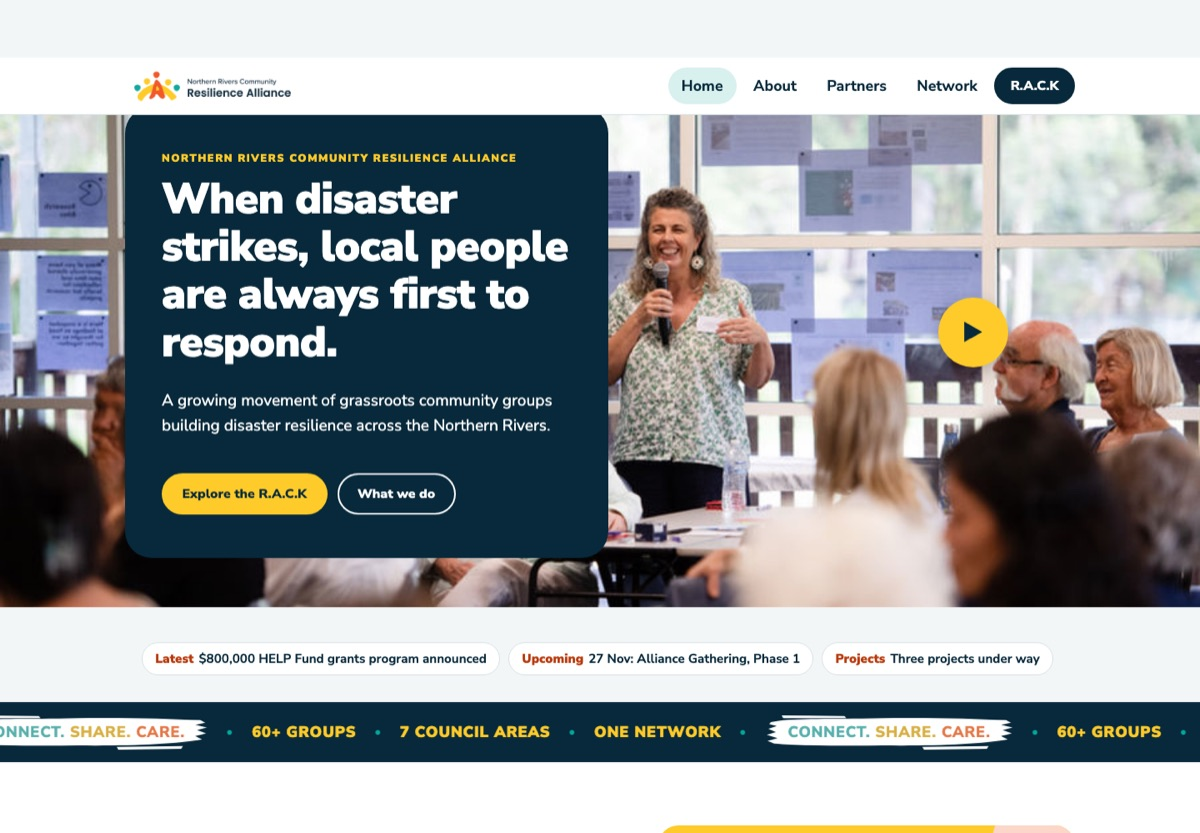
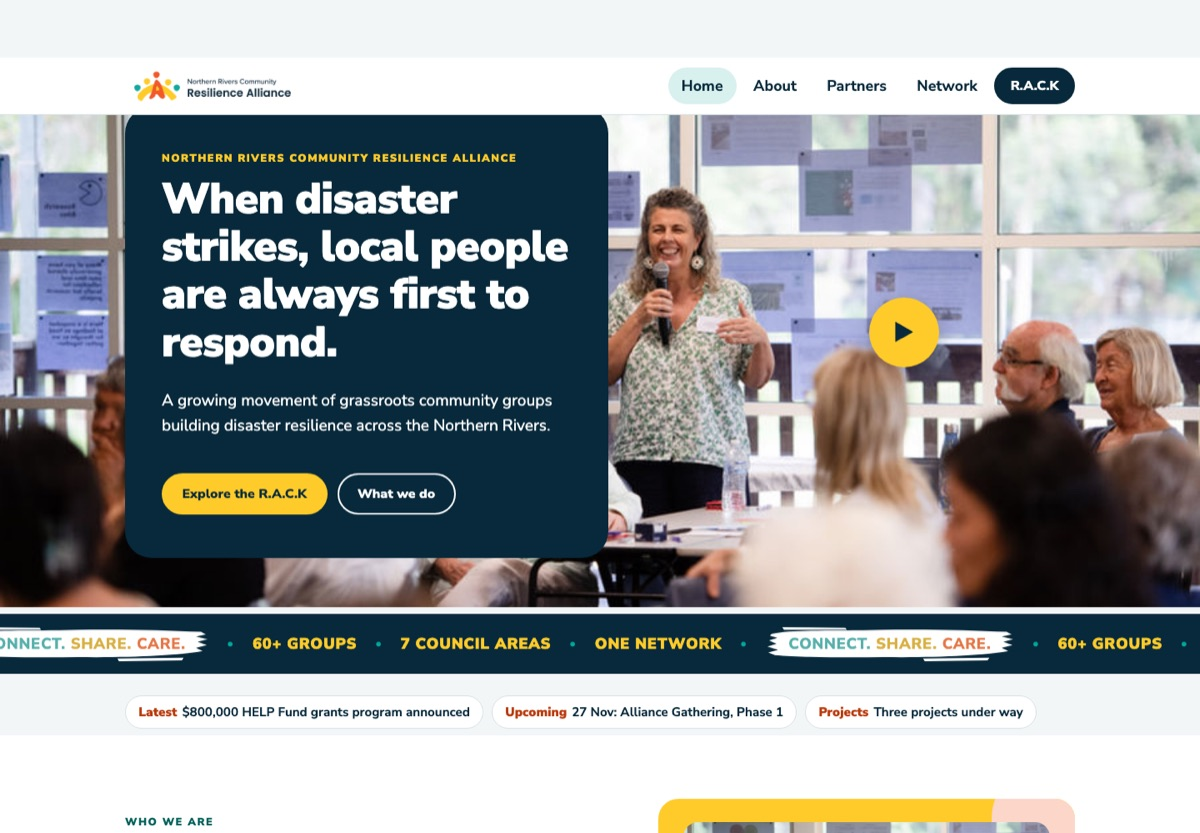
V1/V1.2: remove the bars under the five pillars; V1.2: play button centred between panel and window edge, ticker above the Latest strip

diff --git a/v1.2/index.html b/v1.2/index.html
@@ -171,7 +171,7 @@ body{--bg:#f3f6f7}
 .v1 .pc::before{content:"";display:block;align-self:stretch;height:18px;margin:0 -16px 22px;border-radius:12px 12px 0 0;background:var(--teal)}
 .v1 .pc:nth-child(2)::before{background:var(--yellow)}.v1 .pc:nth-child(3)::before{background:var(--orange)}.v1 .pc:nth-child(4)::before{background:var(--navy)}.v1 .pc:nth-child(5)::before{background:#9fb0b8}
 .v1 .pc-ico{width:52px;height:52px;margin-bottom:8px}.v1 .pc h3{min-height:2.4em;display:flex;align-items:center}
-.v1 .pc-base{height:16px;margin:8px -10px 0;border-radius:8px;background:#cfd8dc}.v1 .pcwrap::after{content:"";display:block;height:10px;margin:0 -20px;border-radius:0 0 10px 10px;background:#e1e7ea}
+.v1 .pc-base{display:none}
 @media(max-width:640px){.v1 .pc{border-radius:12px 12px 6px 6px}}
 .v1 .pc:nth-child(1){background:var(--teal-25)}.v1 .pc:nth-child(2){background:var(--yellow-40)}.v1 .pc:nth-child(3){background:var(--orange-25)}.v1 .pc:nth-child(4){background:var(--blue-15)}.v1 .pc:nth-child(5){background:var(--grey-6)}
 .p3{display:grid;grid-template-columns:.9fr 1.1fr 1fr;gap:36px;align-items:start}.p3-img img{width:100%;aspect-ratio:4/5;object-fit:cover;border-radius:28px}.p3-txt p{font-size:1.1rem;margin:0}
@@ -196,7 +196,7 @@ body{--bg:#f3f6f7}
 .full .bk-navy .eyebrow{color:var(--yellow)}.full :is(.bk-yellow,.bk-teal,.bk-orange) .eyebrow{color:var(--navy)}.full .bk-navy>.wrap>h2,.full .bk-navy>.wrap>.lede{color:#fff}
 .full :is(.bk-teal,.bk-orange,.bk-yellow) .lede-s{color:var(--navy)}
 .full [class*="bk-"] :is(.card,.stat-card,.val,.kb li,.tcard,.vp,.pc,.pcard,.racks li,.callcard){color:var(--navy)}.full [class*="bk-"] :is(.card,.stat-card,.tcard,.pcard,.racks li){background:#fff}
-.full .bk-navy .pc-base,.full .bk-navy .pcwrap::after{background:#2c4a5b}.full .bk-teal .tline path{opacity:.7}.full .bk-teal .t0 .stop{border-color:var(--navy)}.full .bk-teal .val-teal{box-shadow:0 0 0 3px #fff}.full .bk-yellow .callcard{background:#fff}.full .bk-yellow .callcard::after{background:var(--yellow-40)}
+.full .bk-teal .tline path{opacity:.7}.full .bk-teal .t0 .stop{border-color:var(--navy)}.full .bk-teal .val-teal{box-shadow:0 0 0 3px #fff}.full .bk-yellow .callcard{background:#fff}.full .bk-yellow .callcard::after{background:var(--yellow-40)}
 .full .bk-orange .card a:not(.btn){color:var(--teal-d)}.full [class*="bk-"] :is(.card,.stat-card) .eyebrow{color:var(--teal-d)}
 .ticker{display:none}.full .ticker{display:block;overflow:hidden;background:var(--navy);color:var(--yellow);font-weight:900;font-size:1.15rem;letter-spacing:.04em;text-transform:uppercase;padding:12px 0;white-space:nowrap}
 .full .tk-in{display:inline-flex;gap:22px;align-items:center;animation:tk 40s linear infinite}.full .tk-in .tkd{font-style:normal;color:var(--teal);font-size:.7em}
@@ -206,7 +206,7 @@ body{--bg:#f3f6f7}
 /* V1.2: full-width hero and image sections */
 .full .hero1{padding:0 0 8px}.full .hero1>.wrap:first-child{display:flex;align-items:center;max-width:none;padding:0;position:relative;min-height:660px}
 .full .h1-photo{position:absolute;inset:0;border-radius:0;min-height:0}.full .h1-panel{position:relative;z-index:2;max-width:580px;margin:56px 0 56px max(20px,calc((100vw - var(--wrap))/2 + 20px))}
-.full .hero1 .latest{margin-top:22px}.full .hvid .play{left:auto;right:16%}.full .hvid .vtag{display:none}
+.full .hero1 .latest{margin-top:22px}.latest-row{padding:26px 0 8px}.latest-row .latest{margin:0}.full .hvid .play{inset:auto;top:50%;margin:0;left:calc((max(20px,(100% - 1180px)/2 + 20px) + 580px + 100%)/2);transform:translate(-50%,-50%)}.full .hvid .vtag{display:none}
 @media(max-width:860px){.full .hero1>.wrap:first-child{display:block;min-height:0;padding:0 0 250px;position:relative}
 .full .hero1>.wrap:first-child>.h1-panel{margin:16px 16px 0;max-width:none;padding:28px 22px}
 .full .hvid .play{inset:auto;left:50%;right:auto;top:auto;bottom:112px;margin:0;transform:translateX(-50%)}
@@ -226,9 +226,9 @@ body{--bg:#f3f6f7}
 <h1>When disaster strikes, local people are always first to respond.</h1><p class="lede">A growing movement of grassroots community groups building disaster resilience across the Northern Rivers.</p>
 <p class="btnrow"><a class="btn btn-primary" href="#rack">Explore the R.A.C.K</a><a class="btn btn-ghost" href="#about">What we do</a></p></div>
 <div class="h1-photo hvid" data-video="https://player.vimeo.com/video/1238627190?h=85714a045a&autoplay=1"><img src="../assets/img/speaker.jpg" alt="" class="" loading="eager" decoding="async"><button class="play" aria-label="Play the Alliance sizzle reel video, full screen"><span aria-hidden="true">&#9654;</span></button><span class="vtag">Watch the sizzle reel</span></div></div>
-<div class="wrap"><div class="latest"><a href="https://www.nrcra.org.au/news"><b>Latest</b>$800,000 HELP Fund grants program announced</a><a href="#home-focus"><b>Upcoming</b>27 Nov: Alliance Gathering, Phase 1</a><a href="#partners"><b>Projects</b>Three projects under way</a></div></div></div>
+</div>
 
-<div class="ticker" aria-hidden="true"><div class="tk-in"><span><span class="tagline"><i class="tg1">Connect.</i> <i class="tg2">Share.</i> <i class="tg3">Care.</i></span></span><b class="tkd">&#9679;</b><span>60+ groups</span><b class="tkd">&#9679;</b><span>7 council areas</span><b class="tkd">&#9679;</b><span>One network</span><b class="tkd">&#9679;</b><span><span class="tagline"><i class="tg1">Connect.</i> <i class="tg2">Share.</i> <i class="tg3">Care.</i></span></span><b class="tkd">&#9679;</b><span>60+ groups</span><b class="tkd">&#9679;</b><span>7 council areas</span><b class="tkd">&#9679;</b><span>One network</span><b class="tkd">&#9679;</b><span><span class="tagline"><i class="tg1">Connect.</i> <i class="tg2">Share.</i> <i class="tg3">Care.</i></span></span><b class="tkd">&#9679;</b><span>60+ groups</span><b class="tkd">&#9679;</b><span>7 council areas</span><b class="tkd">&#9679;</b><span>One network</span><b class="tkd">&#9679;</b><span><span class="tagline"><i class="tg1">Connect.</i> <i class="tg2">Share.</i> <i class="tg3">Care.</i></span></span><b class="tkd">&#9679;</b><span>60+ groups</span><b class="tkd">&#9679;</b><span>7 council areas</span><b class="tkd">&#9679;</b><span>One network</span><b class="tkd">&#9679;</b></div></div><section class="sec bk-white"><div class="wrap intro1"><div><span class="eyebrow">Who we are</span><h2>This is about more than disaster.</h2><p>Since early 2024, more than 60 groups and organisations across the Northern Rivers have joined together to form the Resilience Alliance, a community-led network focused on collective care, preparedness and regional strength.</p><p>Neighbours became first responders in 2022. Today, those neighbours are building the systems that will protect communities before the next disaster. The Alliance connects prepared communities to each other, sharing knowledge, reducing duplication and making sure no group is doing it alone.</p></div><figure class="callcard"><div class="cc-ph"><img src="../assets/img/circle.jpg" alt="Members sitting together, smiling, in a bright room." class="" loading="lazy" decoding="async"></div><blockquote>Communities know their people, places and strengths. We connect them.</blockquote><figcaption><span class="tagline"><i class="tg1">Connect.</i> <i class="tg2">Share.</i> <i class="tg3">Care.</i></span></figcaption></figure></div></section>
+<div class="ticker" aria-hidden="true"><div class="tk-in"><span><span class="tagline"><i class="tg1">Connect.</i> <i class="tg2">Share.</i> <i class="tg3">Care.</i></span></span><b class="tkd">&#9679;</b><span>60+ groups</span><b class="tkd">&#9679;</b><span>7 council areas</span><b class="tkd">&#9679;</b><span>One network</span><b class="tkd">&#9679;</b><span><span class="tagline"><i class="tg1">Connect.</i> <i class="tg2">Share.</i> <i class="tg3">Care.</i></span></span><b class="tkd">&#9679;</b><span>60+ groups</span><b class="tkd">&#9679;</b><span>7 council areas</span><b class="tkd">&#9679;</b><span>One network</span><b class="tkd">&#9679;</b><span><span class="tagline"><i class="tg1">Connect.</i> <i class="tg2">Share.</i> <i class="tg3">Care.</i></span></span><b class="tkd">&#9679;</b><span>60+ groups</span><b class="tkd">&#9679;</b><span>7 council areas</span><b class="tkd">&#9679;</b><span>One network</span><b class="tkd">&#9679;</b><span><span class="tagline"><i class="tg1">Connect.</i> <i class="tg2">Share.</i> <i class="tg3">Care.</i></span></span><b class="tkd">&#9679;</b><span>60+ groups</span><b class="tkd">&#9679;</b><span>7 council areas</span><b class="tkd">&#9679;</b><span>One network</span><b class="tkd">&#9679;</b></div></div><div class="latest-row"><div class="wrap"><div class="latest"><a href="https://www.nrcra.org.au/news"><b>Latest</b>$800,000 HELP Fund grants program announced</a><a href="#home-focus"><b>Upcoming</b>27 Nov: Alliance Gathering, Phase 1</a><a href="#partners"><b>Projects</b>Three projects under way</a></div></div></div><section class="sec bk-white"><div class="wrap intro1"><div><span class="eyebrow">Who we are</span><h2>This is about more than disaster.</h2><p>Since early 2024, more than 60 groups and organisations across the Northern Rivers have joined together to form the Resilience Alliance, a community-led network focused on collective care, preparedness and regional strength.</p><p>Neighbours became first responders in 2022. Today, those neighbours are building the systems that will protect communities before the next disaster. The Alliance connects prepared communities to each other, sharing knowledge, reducing duplication and making sure no group is doing it alone.</p></div><figure class="callcard"><div class="cc-ph"><img src="../assets/img/circle.jpg" alt="Members sitting together, smiling, in a bright room." class="" loading="lazy" decoding="async"></div><blockquote>Communities know their people, places and strengths. We connect them.</blockquote><figcaption><span class="tagline"><i class="tg1">Connect.</i> <i class="tg2">Share.</i> <i class="tg3">Care.</i></span></figcaption></figure></div></section>
 
 <section class="sec bk-navy" style="padding-top:0"><div class="wrap"><h2>How we work</h2><ul class="values"><li class="val val-teal"><svg class="ico" viewBox="0 0 48 48" aria-hidden="true" fill="none" stroke="currentColor" stroke-width="3" stroke-linecap="round" stroke-linejoin="round"><circle cx="24" cy="24" r="6"/><circle cx="10" cy="10" r="4"/><circle cx="38" cy="10" r="4"/><circle cx="10" cy="38" r="4"/><circle cx="38" cy="38" r="4"/><path d="M13 13l7 7M35 13l-7 7M13 35l7-7M35 35l-7-7"/></svg><h3>Connect</h3><p>We connect 60+ community resilience groups across the region so local leaders can find each other, share resources and act together.</p></li><li class="val val-yellow"><svg class="ico" viewBox="0 0 48 48" aria-hidden="true" fill="none" stroke="currentColor" stroke-width="3" stroke-linecap="round" stroke-linejoin="round"><circle cx="12" cy="24" r="5"/><circle cx="36" cy="12" r="5"/><circle cx="36" cy="36" r="5"/><path d="M17 22l14-8M17 26l14 8"/></svg><h3>Share</h3><p>We share knowledge, training and practical tools across the network so every community benefits from what others have learned.</p></li><li class="val val-orange"><svg class="ico" viewBox="0 0 48 48" aria-hidden="true" fill="none" stroke="currentColor" stroke-width="3" stroke-linecap="round" stroke-linejoin="round"><path d="M24 40S8 30 8 19a8 8 0 0 1 16-3 8 8 0 0 1 16 3c0 11-16 21-16 21z"/></svg><h3>Care</h3><p>We care for the people doing this work: reducing the load on volunteers, removing duplication and supporting community-led resilience.</p></li></ul></div></section>
 

diff --git a/v1/index.html b/v1/index.html
@@ -171,7 +171,7 @@ body{--bg:#f3f6f7}
 .v1 .pc::before{content:"";display:block;align-self:stretch;height:18px;margin:0 -16px 22px;border-radius:12px 12px 0 0;background:var(--teal)}
 .v1 .pc:nth-child(2)::before{background:var(--yellow)}.v1 .pc:nth-child(3)::before{background:var(--orange)}.v1 .pc:nth-child(4)::before{background:var(--navy)}.v1 .pc:nth-child(5)::before{background:#9fb0b8}
 .v1 .pc-ico{width:52px;height:52px;margin-bottom:8px}.v1 .pc h3{min-height:2.4em;display:flex;align-items:center}
-.v1 .pc-base{height:16px;margin:8px -10px 0;border-radius:8px;background:#cfd8dc}.v1 .pcwrap::after{content:"";display:block;height:10px;margin:0 -20px;border-radius:0 0 10px 10px;background:#e1e7ea}
+.v1 .pc-base{display:none}
 @media(max-width:640px){.v1 .pc{border-radius:12px 12px 6px 6px}}
 .v1 .pc:nth-child(1){background:var(--teal-25)}.v1 .pc:nth-child(2){background:var(--yellow-40)}.v1 .pc:nth-child(3){background:var(--orange-25)}.v1 .pc:nth-child(4){background:var(--blue-15)}.v1 .pc:nth-child(5){background:var(--grey-6)}
 .p3{display:grid;grid-template-columns:.9fr 1.1fr 1fr;gap:36px;align-items:start}.p3-img img{width:100%;aspect-ratio:4/5;object-fit:cover;border-radius:28px}.p3-txt p{font-size:1.1rem;margin:0}
@@ -196,7 +196,7 @@ body{--bg:#f3f6f7}
 .full .bk-navy .eyebrow{color:var(--yellow)}.full :is(.bk-yellow,.bk-teal,.bk-orange) .eyebrow{color:var(--navy)}.full .bk-navy>.wrap>h2,.full .bk-navy>.wrap>.lede{color:#fff}
 .full :is(.bk-teal,.bk-orange,.bk-yellow) .lede-s{color:var(--navy)}
 .full [class*="bk-"] :is(.card,.stat-card,.val,.kb li,.tcard,.vp,.pc,.pcard,.racks li,.callcard){color:var(--navy)}.full [class*="bk-"] :is(.card,.stat-card,.tcard,.pcard,.racks li){background:#fff}
-.full .bk-navy .pc-base,.full .bk-navy .pcwrap::after{background:#2c4a5b}.full .bk-teal .tline path{opacity:.7}.full .bk-teal .t0 .stop{border-color:var(--navy)}.full .bk-teal .val-teal{box-shadow:0 0 0 3px #fff}.full .bk-yellow .callcard{background:#fff}.full .bk-yellow .callcard::after{background:var(--yellow-40)}
+.full .bk-teal .tline path{opacity:.7}.full .bk-teal .t0 .stop{border-color:var(--navy)}.full .bk-teal .val-teal{box-shadow:0 0 0 3px #fff}.full .bk-yellow .callcard{background:#fff}.full .bk-yellow .callcard::after{background:var(--yellow-40)}
 .full .bk-orange .card a:not(.btn){color:var(--teal-d)}.full [class*="bk-"] :is(.card,.stat-card) .eyebrow{color:var(--teal-d)}
 .ticker{display:none}.full .ticker{display:block;overflow:hidden;background:var(--navy);color:var(--yellow);font-weight:900;font-size:1.15rem;letter-spacing:.04em;text-transform:uppercase;padding:12px 0;white-space:nowrap}
 .full .tk-in{display:inline-flex;gap:22px;align-items:center;animation:tk 40s linear infinite}.full .tk-in .tkd{font-style:normal;color:var(--teal);font-size:.7em}
@@ -206,7 +206,7 @@ body{--bg:#f3f6f7}
 /* V1.2: full-width hero and image sections */
 .full .hero1{padding:0 0 8px}.full .hero1>.wrap:first-child{display:flex;align-items:center;max-width:none;padding:0;position:relative;min-height:660px}
 .full .h1-photo{position:absolute;inset:0;border-radius:0;min-height:0}.full .h1-panel{position:relative;z-index:2;max-width:580px;margin:56px 0 56px max(20px,calc((100vw - var(--wrap))/2 + 20px))}
-.full .hero1 .latest{margin-top:22px}.full .hvid .play{left:auto;right:16%}.full .hvid .vtag{display:none}
+.full .hero1 .latest{margin-top:22px}.latest-row{padding:26px 0 8px}.latest-row .latest{margin:0}.full .hvid .play{inset:auto;top:50%;margin:0;left:calc((max(20px,(100% - 1180px)/2 + 20px) + 580px + 100%)/2);transform:translate(-50%,-50%)}.full .hvid .vtag{display:none}
 @media(max-width:860px){.full .hero1>.wrap:first-child{display:block;min-height:0;padding:0 0 250px;position:relative}
 .full .hero1>.wrap:first-child>.h1-panel{margin:16px 16px 0;max-width:none;padding:28px 22px}
 .full .hvid .play{inset:auto;left:50%;right:auto;top:auto;bottom:112px;margin:0;transform:translateX(-50%)}

diff --git a/tools/build.py b/tools/build.py
@@ -693,7 +693,7 @@ body{--bg:#f3f6f7}
 .v1 .pc::before{content:"";display:block;align-self:stretch;height:18px;margin:0 -16px 22px;border-radius:12px 12px 0 0;background:var(--teal)}
 .v1 .pc:nth-child(2)::before{background:var(--yellow)}.v1 .pc:nth-child(3)::before{background:var(--orange)}.v1 .pc:nth-child(4)::before{background:var(--navy)}.v1 .pc:nth-child(5)::before{background:#9fb0b8}
 .v1 .pc-ico{width:52px;height:52px;margin-bottom:8px}.v1 .pc h3{min-height:2.4em;display:flex;align-items:center}
-.v1 .pc-base{height:16px;margin:8px -10px 0;border-radius:8px;background:#cfd8dc}.v1 .pcwrap::after{content:"";display:block;height:10px;margin:0 -20px;border-radius:0 0 10px 10px;background:#e1e7ea}
+.v1 .pc-base{display:none}
 @media(max-width:640px){.v1 .pc{border-radius:12px 12px 6px 6px}}
 .v1 .pc:nth-child(1){background:var(--teal-25)}.v1 .pc:nth-child(2){background:var(--yellow-40)}.v1 .pc:nth-child(3){background:var(--orange-25)}.v1 .pc:nth-child(4){background:var(--blue-15)}.v1 .pc:nth-child(5){background:var(--grey-6)}
 .p3{display:grid;grid-template-columns:.9fr 1.1fr 1fr;gap:36px;align-items:start}.p3-img img{width:100%;aspect-ratio:4/5;object-fit:cover;border-radius:28px}.p3-txt p{font-size:1.1rem;margin:0}
@@ -718,7 +718,7 @@ body{--bg:#f3f6f7}
 .full .bk-navy .eyebrow{color:var(--yellow)}.full :is(.bk-yellow,.bk-teal,.bk-orange) .eyebrow{color:var(--navy)}.full .bk-navy>.wrap>h2,.full .bk-navy>.wrap>.lede{color:#fff}
 .full :is(.bk-teal,.bk-orange,.bk-yellow) .lede-s{color:var(--navy)}
 .full [class*="bk-"] :is(.card,.stat-card,.val,.kb li,.tcard,.vp,.pc,.pcard,.racks li,.callcard){color:var(--navy)}.full [class*="bk-"] :is(.card,.stat-card,.tcard,.pcard,.racks li){background:#fff}
-.full .bk-navy .pc-base,.full .bk-navy .pcwrap::after{background:#2c4a5b}.full .bk-teal .tline path{opacity:.7}.full .bk-teal .t0 .stop{border-color:var(--navy)}.full .bk-teal .val-teal{box-shadow:0 0 0 3px #fff}.full .bk-yellow .callcard{background:#fff}.full .bk-yellow .callcard::after{background:var(--yellow-40)}
+.full .bk-teal .tline path{opacity:.7}.full .bk-teal .t0 .stop{border-color:var(--navy)}.full .bk-teal .val-teal{box-shadow:0 0 0 3px #fff}.full .bk-yellow .callcard{background:#fff}.full .bk-yellow .callcard::after{background:var(--yellow-40)}
 .full .bk-orange .card a:not(.btn){color:var(--teal-d)}.full [class*="bk-"] :is(.card,.stat-card) .eyebrow{color:var(--teal-d)}
 .ticker{display:none}.full .ticker{display:block;overflow:hidden;background:var(--navy);color:var(--yellow);font-weight:900;font-size:1.15rem;letter-spacing:.04em;text-transform:uppercase;padding:12px 0;white-space:nowrap}
 .full .tk-in{display:inline-flex;gap:22px;align-items:center;animation:tk 40s linear infinite}.full .tk-in .tkd{font-style:normal;color:var(--teal);font-size:.7em}
@@ -728,7 +728,7 @@ body{--bg:#f3f6f7}
 /* V1.2: full-width hero and image sections */
 .full .hero1{padding:0 0 8px}.full .hero1>.wrap:first-child{display:flex;align-items:center;max-width:none;padding:0;position:relative;min-height:660px}
 .full .h1-photo{position:absolute;inset:0;border-radius:0;min-height:0}.full .h1-panel{position:relative;z-index:2;max-width:580px;margin:56px 0 56px max(20px,calc((100vw - var(--wrap))/2 + 20px))}
-.full .hero1 .latest{margin-top:22px}.full .hvid .play{left:auto;right:16%}.full .hvid .vtag{display:none}
+.full .hero1 .latest{margin-top:22px}.latest-row{padding:26px 0 8px}.latest-row .latest{margin:0}.full .hvid .play{inset:auto;top:50%;margin:0;left:calc((max(20px,(100% - 1180px)/2 + 20px) + 580px + 100%)/2);transform:translate(-50%,-50%)}.full .hvid .vtag{display:none}
 @media(max-width:860px){.full .hero1>.wrap:first-child{display:block;min-height:0;padding:0 0 250px;position:relative}
 .full .hero1>.wrap:first-child>.h1-panel{margin:16px 16px 0;max-width:none;padding:28px 22px}
 .full .hvid .play{inset:auto;left:50%;right:auto;top:auto;bottom:112px;margin:0;transform:translateX(-50%)}
@@ -770,13 +770,16 @@ def v1_partners():
 
 
 def v1(full=False):
+    latest = f'''<div class="latest"><a href="{LINKS["news"]}"><b>Latest</b>$800,000 HELP Fund grants program announced</a><a href="#home-focus"><b>Upcoming</b>{GATHER[0]}: {GATHER[1]}</a><a href="#partners"><b>Projects</b>Three projects under way</a></div>'''
+    latest_in_hero = "" if full else '<div class="wrap">' + latest + '</div>'
+    ticker_then_latest = (TICKER + '<div class="latest-row"><div class="wrap">' + latest + '</div></div>') if full else ""
     home = f'''<div class="hero1"><div class="wrap"><div class="h1-panel"><span class="eyebrow">Northern Rivers Community Resilience Alliance</span>
 <h1>When disaster strikes, local people are always first to respond.</h1><p class="lede">{H1}.</p>
 <p class="btnrow"><a class="btn btn-primary" href="#rack">Explore the R.A.C.K</a><a class="btn btn-ghost" href="#about">What we do</a></p></div>
 <div class="h1-photo hvid" data-video="{VIMEO}">{img("speaker", eager=True, alt="")}<button class="play" aria-label="Play the Alliance sizzle reel video, full screen"><span aria-hidden="true">&#9654;</span></button><span class="vtag">Watch the sizzle reel</span></div></div>
-<div class="wrap"><div class="latest"><a href="{LINKS["news"]}"><b>Latest</b>$800,000 HELP Fund grants program announced</a><a href="#home-focus"><b>Upcoming</b>{GATHER[0]}: {GATHER[1]}</a><a href="#partners"><b>Projects</b>Three projects under way</a></div></div></div>
+{latest_in_hero}</div>
 
-{TICKER if full else ""}<section class="sec bk-white"><div class="wrap intro1"><div><span class="eyebrow">Who we are</span><h2>This is about more than disaster.</h2><p>{WHO}</p><p>{MORE}</p></div><figure class="callcard"><div class="cc-ph">{img("circle")}</div><blockquote>{CALLOUT}</blockquote><figcaption>{TAGLINE}</figcaption></figure></div></section>
+{ticker_then_latest}<section class="sec bk-white"><div class="wrap intro1"><div><span class="eyebrow">Who we are</span><h2>This is about more than disaster.</h2><p>{WHO}</p><p>{MORE}</p></div><figure class="callcard"><div class="cc-ph">{img("circle")}</div><blockquote>{CALLOUT}</blockquote><figcaption>{TAGLINE}</figcaption></figure></div></section>
 
 <section class="sec bk-navy" style="padding-top:0"><div class="wrap"><h2>How we work</h2>{values_cards()}</div></section>
 
